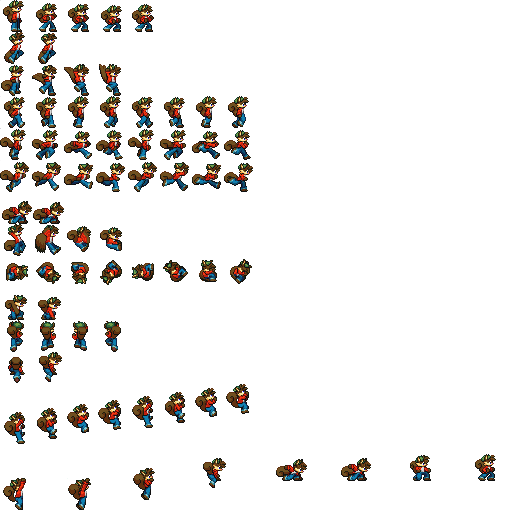
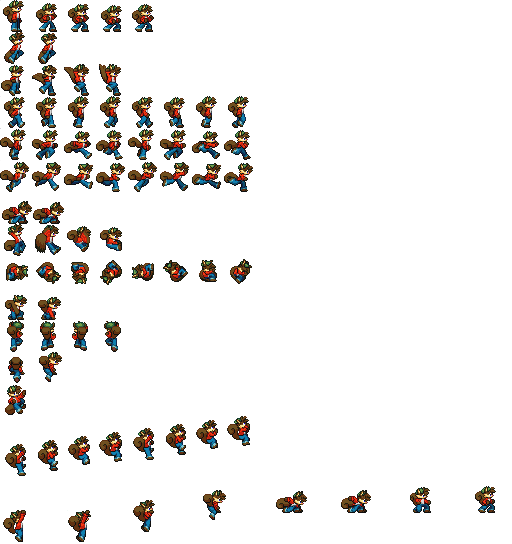
add wall kick animation (while climb and how other direction (left/right))

diff --git a/src/entities/Player.java b/src/entities/Player.java
@@ -25,6 +25,7 @@ public class Player extends Entity {
     private float fallSpeedScale = 2.0f;            // multiple to make falling faster than jumping
     private boolean inAir = false;
     private int countJump = 0;
+    private boolean preWallKick = false;
 
     // Double jump
     private final int maxNumberOfJumps = 2;
@@ -145,7 +146,9 @@ public class Player extends Entity {
         if (ledgeClimbing) {
             playerAction = LEDGE_CLIMB;
         } else if (climbing) {
-            playerAction = WALL_CLIMB;
+            if (!preWallKick)
+                playerAction = WALL_CLIMB;
+            else playerAction = WALL_KICK;
         } else if (inAir) {
             if (countJump == 2)
                 playerAction = AIR_FLIP;
@@ -193,18 +196,27 @@ public class Player extends Entity {
         // normal moving
         // d -> move right, a -> move left
         float xSpeed = 0;   // prefer as delta x : to add to player position x (horizontal)
-        if (canMove && !climbing) {
-            if (left) {
-                isFacingLeft = true;
-                xSpeed -= playerSpeed;
-                flipX = width;
-                flipW = -1;
+        if (canMove) {
+            if (climbing) {
+                if ((isFacingLeft && right) || (!isFacingLeft && left)) preWallKick = true;
+                else if (!left && !right) {
+                    preWallKick = false;
+                    firstClimb = true;
+                }
             }
-            if (right) {
-                isFacingLeft = false;
-                xSpeed += playerSpeed;
-                flipX = 0;
-                flipW = 1;
+            else {
+                if (left) {
+                    isFacingLeft = true;
+                    xSpeed -= playerSpeed;
+                    flipX = width;
+                    flipW = -1;
+                }
+                if (right) {
+                    isFacingLeft = false;
+                    xSpeed += playerSpeed;
+                    flipX = 0;
+                    flipW = 1;
+                }
             }
         }
 
@@ -238,23 +250,22 @@ public class Player extends Entity {
 
             // no climbing
             // changing vertical position when jumping/falling
-            if (canMove)
-                if (CanMoveHere(hitbox.x, hitbox.y + airSpeed, hitbox.width, hitbox.height, levelData)) {
-                    hitbox.y += airSpeed;
-                    if (airSpeed > 0)
-                        airSpeed += gravity * fallSpeedScale;
-                    else airSpeed += gravity;
-                    // making falling faster than jumping
-                    updateXPos(xSpeed);
-                } else {
-                    hitbox.y = GetEntityYPosUnderRoofOrAboveFloor(hitbox, airSpeed);
-                    if (airSpeed > 0)
-                        resetInAir();
-                    else
-                        airSpeed += gravity * fallSpeedScale;
-                    updateXPos(xSpeed);
-                }
-
+                if (canMove)
+                    if (CanMoveHere(hitbox.x, hitbox.y + airSpeed, hitbox.width, hitbox.height, levelData)) {
+                        hitbox.y += airSpeed;
+                        if (airSpeed > 0)
+                            airSpeed += gravity * fallSpeedScale;
+                        else airSpeed += gravity;
+                        // making falling faster than jumping
+                        updateXPos(xSpeed);
+                    } else {
+                        hitbox.y = GetEntityYPosUnderRoofOrAboveFloor(hitbox, airSpeed);
+                        if (airSpeed > 0)
+                            resetInAir();
+                        else
+                            airSpeed += gravity * fallSpeedScale;
+                        updateXPos(xSpeed);
+                    }
         } else {
             updateXPos(xSpeed);
         }
@@ -294,6 +305,7 @@ public class Player extends Entity {
                 firstClimb = false;
                 climbing = true;
             } else {
+                preWallKick = false;
                 climbing = false;
                 inAir = true;
                 airSpeed = jumpSpeed;
@@ -350,7 +362,7 @@ public class Player extends Entity {
 
     private void loadAnimation() {
         BufferedImage img = LoadSave.GetSpriteAtlas(LoadSave.PLAYER_ATLAS);
-        animations = new BufferedImage[14][8];
+        animations = new BufferedImage[15][8];
         // for (int i = 0; i < animations.length; i++) {
         //     for (int j = 0; j < animations[i].length; j++) {
         //         animations[i][j] = img.getSubimage(j * 32, i * 32, 32, 32);
@@ -363,8 +375,8 @@ public class Player extends Entity {
         }
         // Animation > 32 pixels
         for (int i = 0; i < 8; i++) {
-            animations[12][i] = img.getSubimage(i * 32, 12 * 32, 32, 64); // CLIMB 64x32
-            animations[13][i] = img.getSubimage(i * 64, 14 * 32, 64, 64); // LEDGE CLIMB 64x64
+            animations[13][i] = img.getSubimage(i * 32, 13 * 32, 32, 64); // CLIMB 64x32
+            animations[14][i] = img.getSubimage(i * 64, 15 * 32, 64, 64); // LEDGE CLIMB 64x64
         }
     }
 

diff --git a/src/utilz/Constants.java b/src/utilz/Constants.java
@@ -9,8 +9,9 @@ public class Constants {
         public static final int RUNNING = 4;
         public static final int CROUCH = 6;
         public static final int AIR_FLIP = 8;
-        public static final int WALL_CLIMB = 12;
-        public static final int LEDGE_CLIMB = 13;
+        public static final int WALL_KICK = 12;
+        public static final int WALL_CLIMB = 13;
+        public static final int LEDGE_CLIMB = 14;
         // public static final int GROUND = 3;
         // public static final int HIT = 5;
 
@@ -23,6 +24,7 @@ public class Constants {
                 case RUNNING -> 8;
                 case CROUCH -> 2;
                 case AIR_FLIP -> 8;
+                case WALL_KICK -> 1;
                 case WALL_CLIMB -> 8;
                 case LEDGE_CLIMB -> 8;
                 default -> 1;
